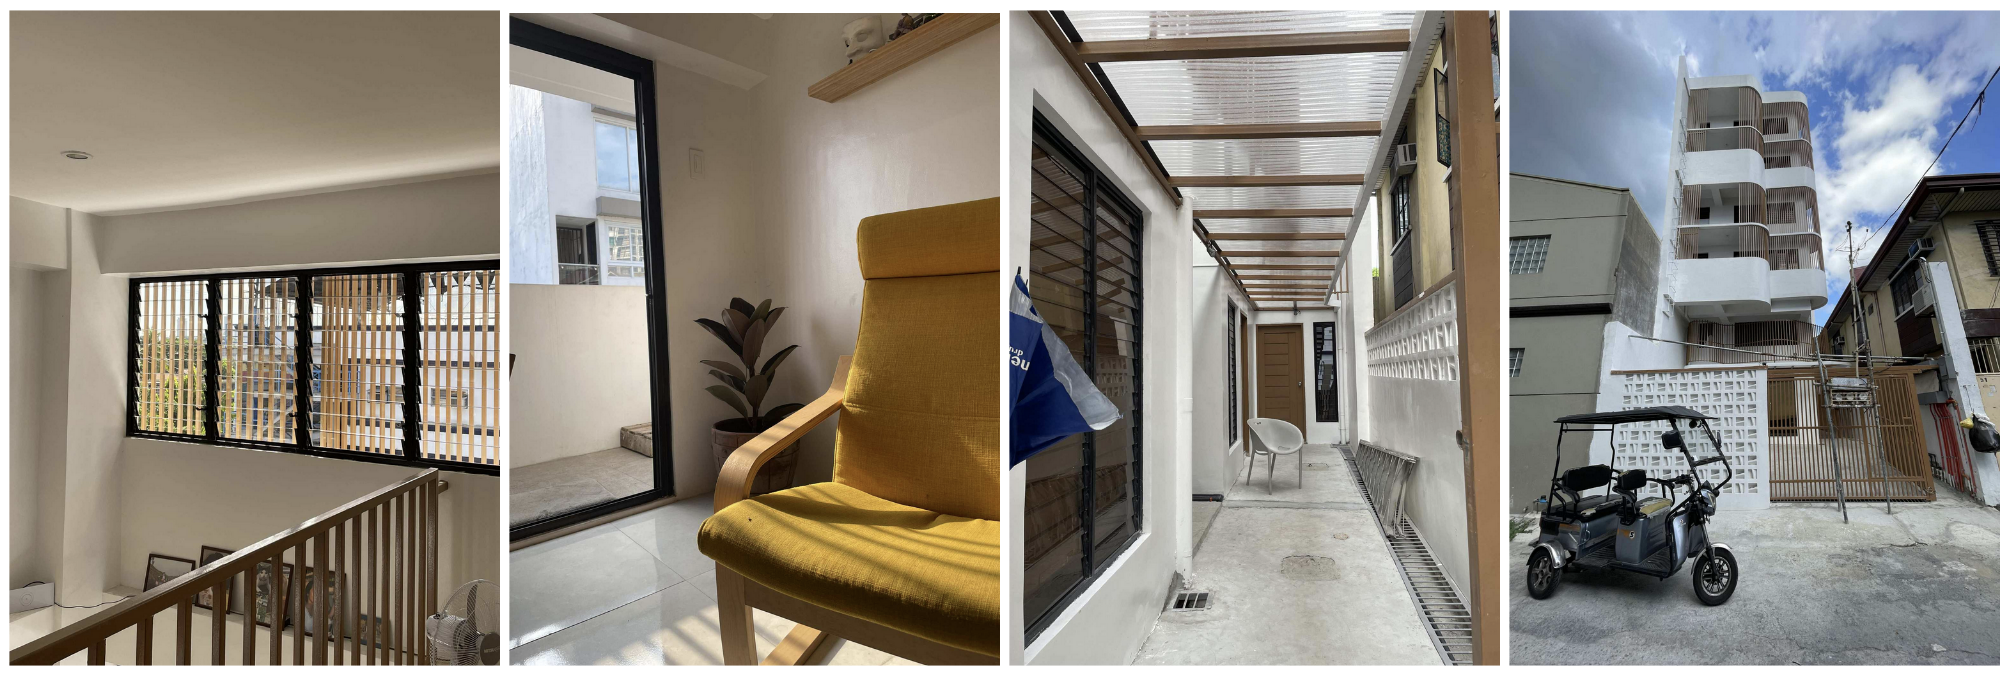
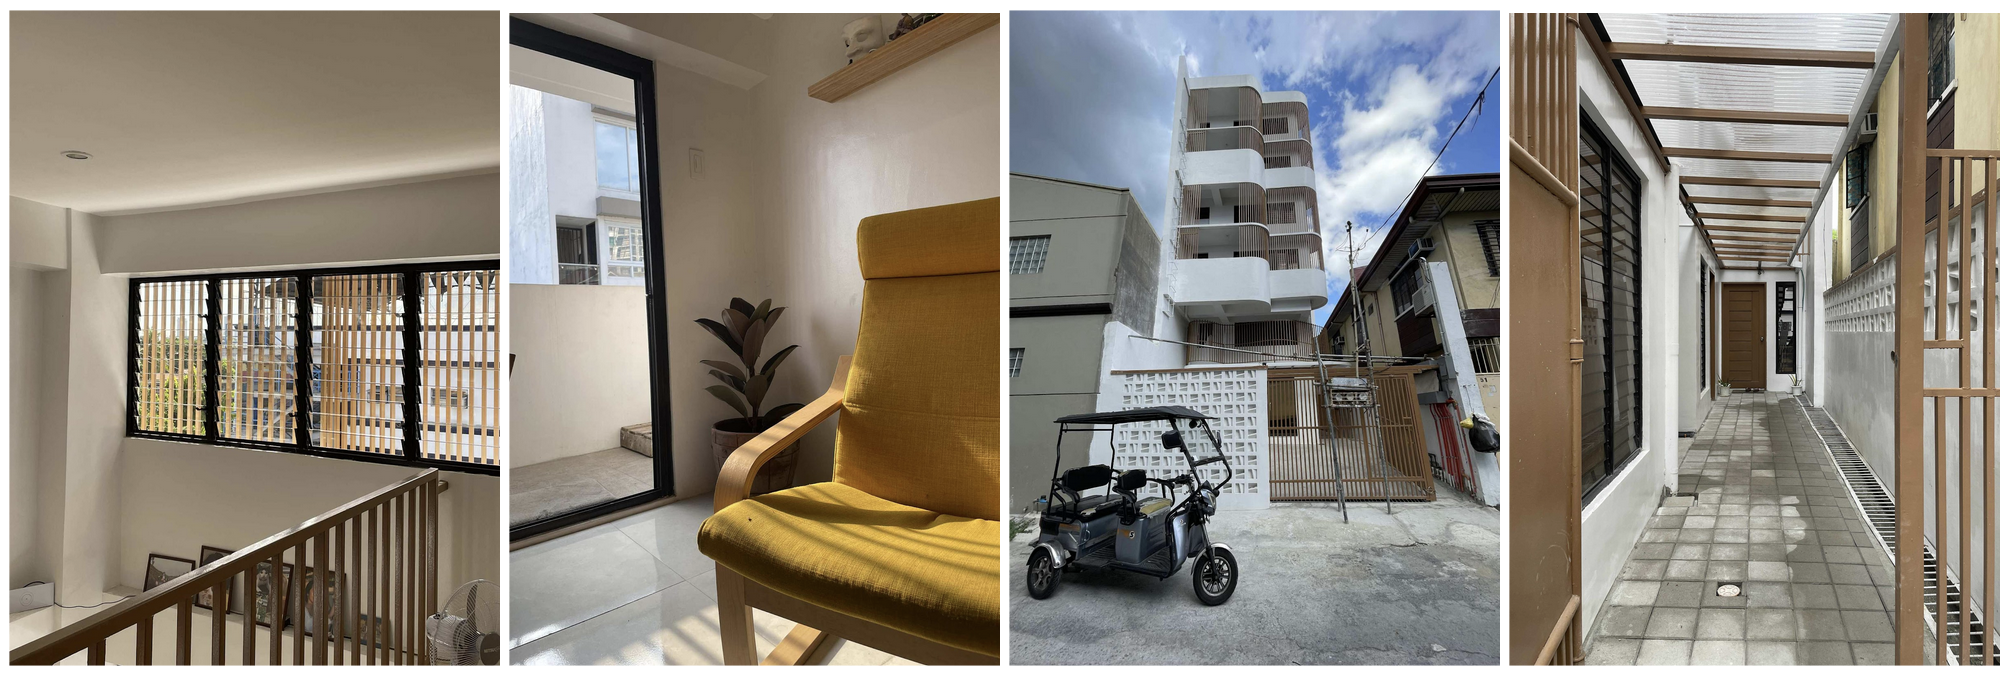
added new photos and copyedits

diff --git a/index.html b/index.html
@@ -228,14 +228,17 @@
     <section id="design" class="card">
       <h2>Modern Filipino design</h2>
       <p>
-       SM51: 3-story modern loft in Santolan, Pasig. Design prioritizes simplicity, efficiency, and climate adaptation. Units boast high ceilings, large windows for natural light, and modern finishes for open, airy living.
+       SM51: 3-story modern loft in Santolan, Pasig. Design (by <a href="https://www.eastudio.ph/">Emerging Architects Studio</a>) 
+       prioritizes simplicity, efficiency, and climate adaptation. Units boast high ceilings, large windows for natural light, 
+       and modern finishes for open, airy living.
       </p>
     </section>
 
     <section id="location" class="card">
       <h2>Accessible location</h2>
       <p style="font-size: 1rem; color: #4a4a4a; line-height: 1.6;">
-        Located in Santolan, Pasig City, with easy access to transport (LRT2 Santolan), schools, and shopping centers (SM City Marikina, Ayala Feliz). 
+        Located in Santolan, Pasig City, with easy access to transport (LRT2 Santolan), schools, and 
+        shopping centers (SM City Marikina, Ayala Feliz). 
       </p>
       <div id="map"></div>
     </section>
@@ -252,13 +255,15 @@
         <div>
           <h3>Reliable utilities</h3>
           <p>
-          Equipped with a reliable water system and booster pump, ensuring consistent water pressure and supply for all residents.
+          Equipped with a reliable water system and booster pump, ensuring consistent water pressure 
+          and supply for all residents.
           </p>
         </div>
         <div>
           <h3>Public transport access</h3>
           <p>
-            Conveniently located along public transport hubs (Marcos Highway) with routes to Marikina, Pasig, and Quezon City.
+            Conveniently located along public transport hubs (Marcos Highway) with routes to 
+            Marikina, Pasig, and Quezon City.
           </p>
         </div>
       </div>
@@ -278,14 +283,16 @@
           <img src="img/2a.png" alt="Unit 2A floor plan">
           <div class="unit-info">
             <h3>Unit 2A (37 sqm)</h3>
-            <p>A studio unit with a separate living area and loft for bedroom, perfect for individuals or couples and, a cat.</p>
+            <p>A studio unit with a separate living area and loft for bedroom, perfect for individuals 
+              or couples and, a cat.</p>
           </div>
         </div>
         <div class="unit">
           <img src="img/2b_3b.png" alt="Unit 2B and 3B floor plan">
           <div class="unit-info">
             <h3>Unit 2B & 3B (55 sqm)</h3>
-            <p>A modern loft-style unit with an open floor plan and high ceilings, ideal for a small family and, a dog.</p>
+            <p>A modern loft-style unit with an open floor plan and high ceilings, ideal for a 
+              small family and, a dog.</p>
           </div>
         </div>
       </div>
@@ -301,7 +308,7 @@
   </main>
 
   <footer>
-    <p>&copy; 2024 SM51 Lofts Apartment | #51 Santa Maria Phase 3 Santolan, Pasig City | Contact: Jenie, +63 927 626 0421</p>
+    <p>&copy; 2025 SM51 Lofts Apartment | #51 Santa Maria Phase 3 Santolan, Pasig City | Contact: Jenie, +63 927 626 0421</p>
   </footer>
 
   <!-- Mapbox Script -->
@@ -330,7 +337,7 @@
       }
     ];
     
-    mapboxgl.accessToken = 'pk.eyJ1IjoibWFuaW5nc2FtYmFsZSIsImEiOiJjamx3YTQya2ExNWdlM3FwM3Z1YWp2bHZrIn0.mk2emL4LkX_uwFPq7nHZsA';
+    mapboxgl.accessToken = 'pk.eyJ1IjoibWFuaW5nIiwiYSI6ImNsamk4b2UxejBrbmIzcG81N2t5NXI2a2kifQ.BY39zFF7ghtxdxyFo2GW1A';
     const map = new mapboxgl.Map({
       container: 'map',
       style: 'mapbox://styles/mapbox/standard',
@@ -411,23 +418,25 @@
     // Gallery script
     document.addEventListener('DOMContentLoaded', () => {
       const imageFilenames = [
-        '469428891_10237447510632650_8796800767557181488_n.jpg', 
+        '469428891_10237447510632650_8796800767557181488_n.jpg',
+        '469583308_10237447509272616_4198315515169283570_n.jpg',
+        '470668268_10237525543903433_3184108879559742592_n.jpg',
+        '470670006_10237525543823431_3723385299371521167_n.jpg',
+        '470795820_10237525543463422_8172725001895904318_n.jpg',
+        '471126436_10237542813655166_930627831749308446_n.jpg',
+        '471250715_10237542813335158_6389282336846922836_n.jpg',
+        'A6Rn0xsL.jpg',
+        'AWO2QFn0.jpg',
+        'G5gEbpUr.jpg',
         'chair.jpg',
-        '469583308_10237447509272616_4198315515169283570_n.jpg', 
         'exterior.jpg',
-        '470668268_10237525543903433_3184108879559742592_n.jpg', 
-        'gf_hallway.jpg', 
-        '470670006_10237525543823431_3723385299371521167_n.jpg', 
-        'l_vPHp0G.jpg', 
-        '470795820_10237525543463422_8172725001895904318_n.jpg', 
-        'qhlR7nXA.jpg', 
-        '471126436_10237542813655166_930627831749308446_n.jpg', 
-        'rbgU6adF.jpg', 
-        '471250715_10237542813335158_6389282336846922836_n.jpg', 
-        'wAZ3xY70.jpg', 
-        'AWO2QFn0.jpg', 
-        'window.jpg', 
-        'G5gEbpUr.jpg'];
+        'l9ByiBor.jpg',
+        'l_vPHp0G.jpg',
+        'qhlR7nXA.jpg',
+        'rbgU6adF.jpg',
+        'wAZ3xY70.jpg',
+        'window.jpg'
+];
 
       function shuffleArray(array) {
         for (let i = array.length - 1; i > 0; i--) {
